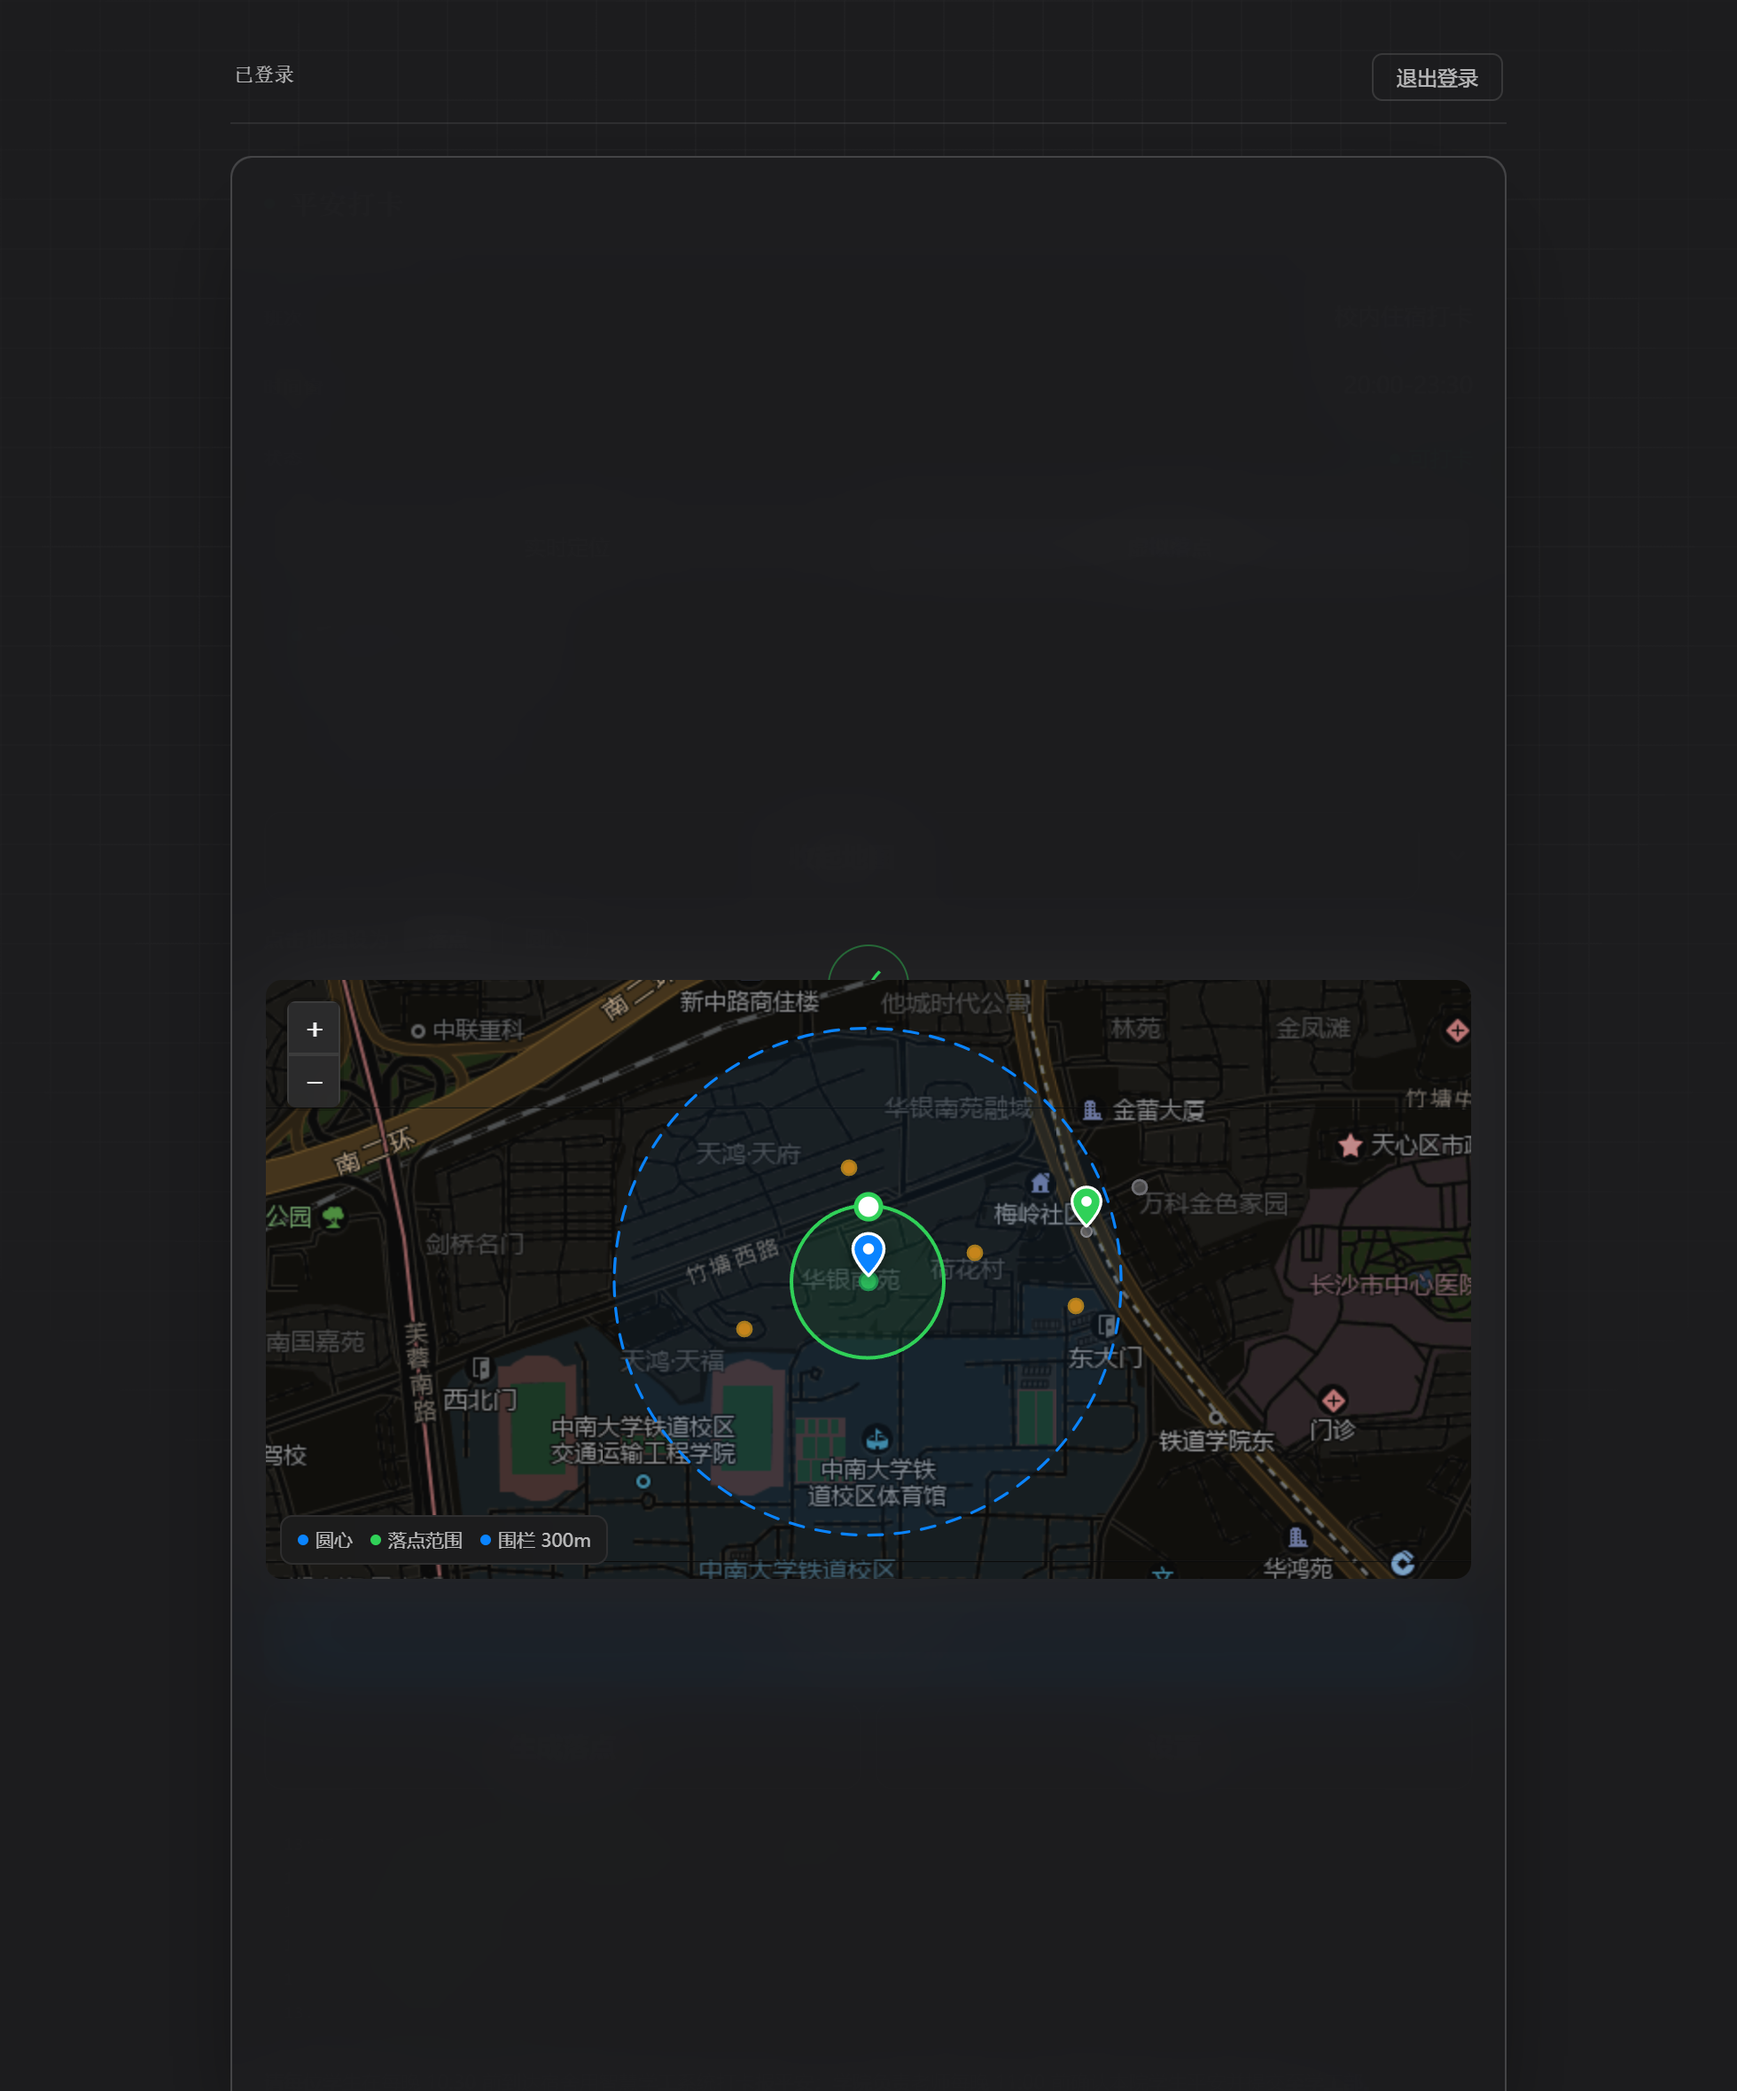
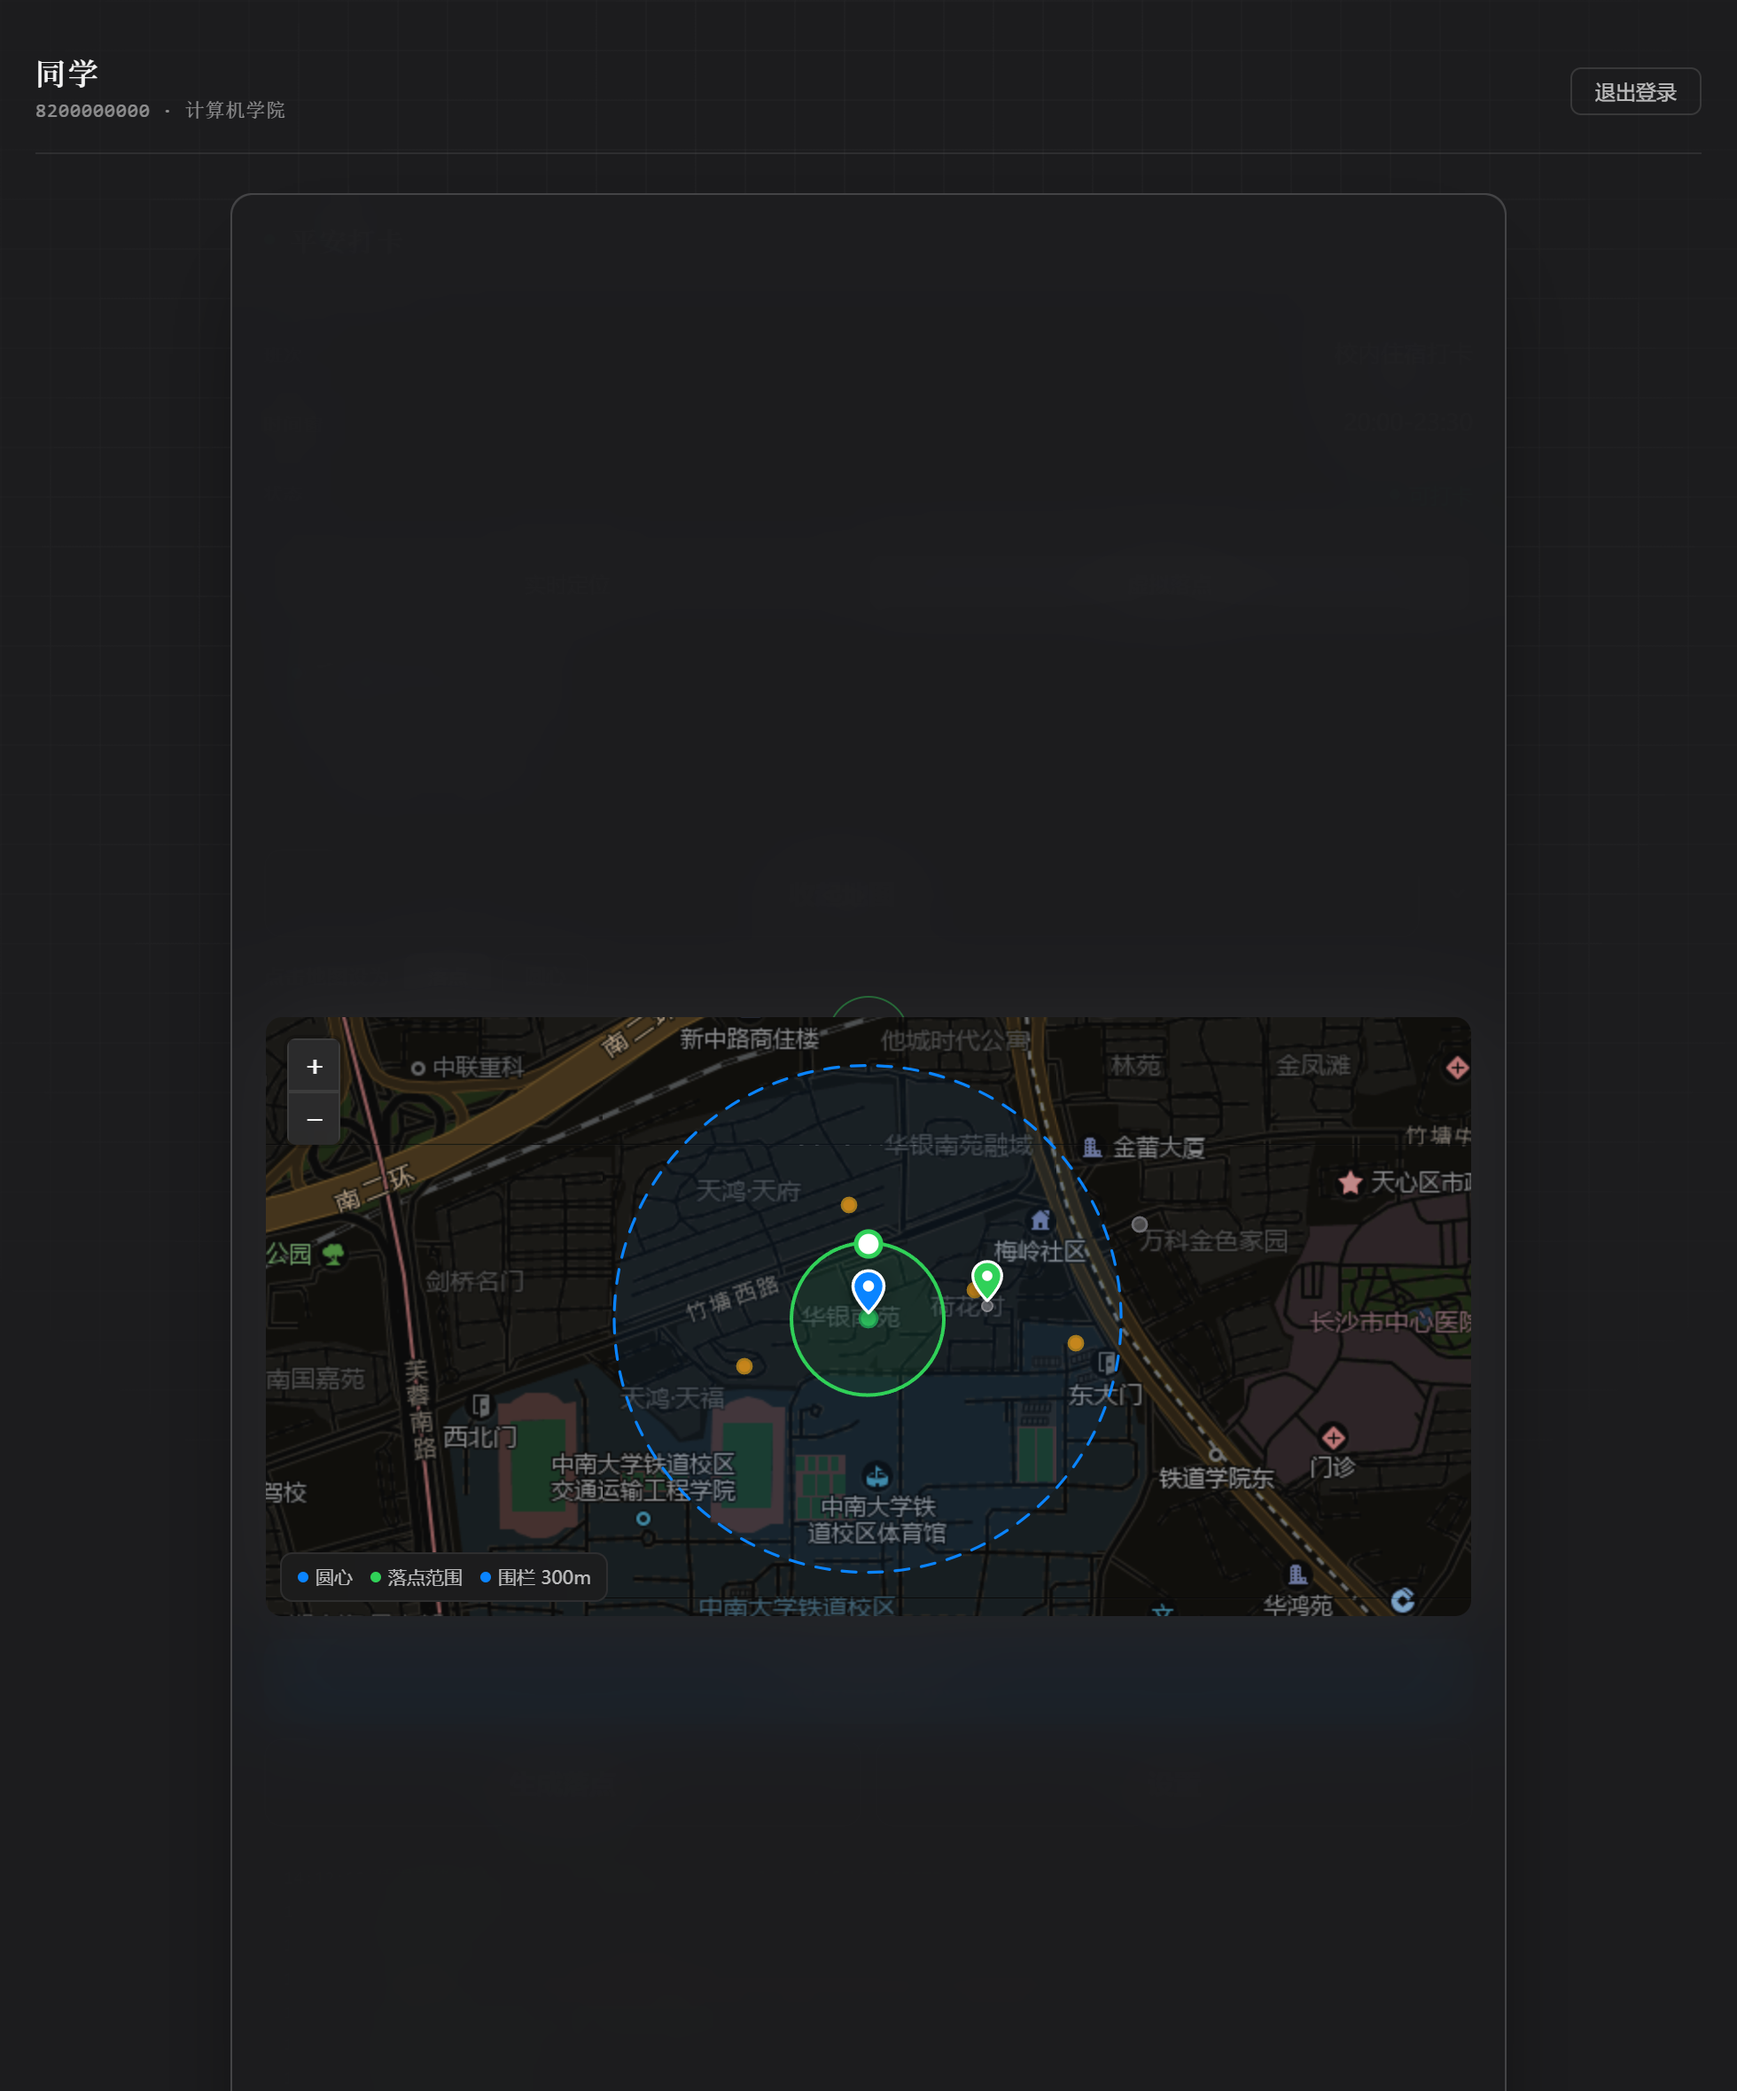
feat(padk): 身份信息提到页眉左上角，并持久化用户档案
页眉
- .padk-bar 原本是「与面板同宽的居中标尺」，学生信息被摆在页面中上方。
  改为贴内容区左缘的页眉：姓名用衬线放大一号，学号与院系以等宽小字衬在
  下方，退出登录留在右端。桌面 x=20、窄屏 x=12

顺带修掉的连带缺陷
- user 是内存态，刷新后只剩 token，页眉会退化成「已登录」，
  等于这个展示刷新一次就没了。新增 csu-padk:profile 单独持久化档案，
  初始化时回填，退出登录与凭据失效（203/2031）时一并清除

验证
- e2e-fixtures 的 enterReady 补写档案，使审计能看到真实身份
- 审计新增页眉断言：x 坐标、左边缘判定、姓名、字体、学号/院系
- 9 个状态规范检查全通过；桌面与窄屏都确认落在左上角，
  姓名渲染为 Songti SC，学号/院系为等宽小字
- shots/ 视觉快照已按新页眉重新生成

diff --git a/05-padk-web/src/padk/PadkPage.tsx b/05-padk-web/src/padk/PadkPage.tsx
@@ -5,7 +5,11 @@ import { store } from "../core/store";
 // （书签注入时则是把同一份 CSS 内联进 Shadow DOM）
 import "../panel/panel.css";
 
+/** 只存学号，用于回填登录表单 */
 const LS_USER = "csu-padk:savedUser";
+/** 完整用户档案（姓名 / 学号 / 院系）。刷新后 token 还在，
+ *  但 user 是内存态、会丢，页眉就只剩「已登录」——单独存一份 */
+const LS_PROFILE = "csu-padk:profile";
 
 export default function PadkPage() {
   const [phase, setPhase] = useState<"check" | "login" | "ready">("check");
@@ -22,6 +26,15 @@ export default function PadkPage() {
     const c = localStorage.getItem("casual") || localStorage.getItem("caasual") || "";
     const saved = localStorage.getItem(LS_USER);
     if (saved) setUsername(saved);
+
+    const profile = localStorage.getItem(LS_PROFILE);
+    if (profile) {
+      try {
+        setUser(JSON.parse(profile));
+      } catch {
+        localStorage.removeItem(LS_PROFILE);
+      }
+    }
 
     if (t.length >= 32 && c.length >= 8) {
       setPhase("ready");
@@ -54,6 +67,7 @@ export default function PadkPage() {
 
       localStorage.setItem("token", j.token);
       localStorage.setItem("casual", j.casual);
+      localStorage.setItem(LS_PROFILE, JSON.stringify(j.user));
       if (remember) localStorage.setItem(LS_USER, j.user.xh);
       else localStorage.removeItem(LS_USER);
 
@@ -73,6 +87,7 @@ export default function PadkPage() {
     localStorage.removeItem("token");
     localStorage.removeItem("casual");
     localStorage.removeItem("caasual");
+    localStorage.removeItem(LS_PROFILE);
     store.clearHistory();
     setPhase("login");
     setUser(null);
@@ -83,6 +98,7 @@ export default function PadkPage() {
     localStorage.removeItem("token");
     localStorage.removeItem("casual");
     localStorage.removeItem("caasual");
+    localStorage.removeItem(LS_PROFILE);
     setUser(null);
     setErr(`${msg}　请重新登录。`);
     setPhase("login");
@@ -160,10 +176,12 @@ export default function PadkPage() {
   return (
     <div className="padk-shell">
       <div className="padk-bar">
-        <span className="pb-id">
-          {user ? `${user.xm} · ${user.xh}` : "已登录"}
-          {user?.bmmc ? ` · ${user.bmmc}` : ""}
-        </span>
+        <div className="pb-who">
+          <span className="pb-name">{user?.xm || "已登录"}</span>
+          <span className="pb-meta">
+            {user ? [user.xh, user.bmmc].filter(Boolean).join(" · ") : "—"}
+          </span>
+        </div>
         <button className="pb-out" onClick={logout}>
           退出登录
         </button>

diff --git a/05-padk-web/src/padk/padk.css b/05-padk-web/src/padk/padk.css
@@ -211,24 +211,45 @@ body:has(.padk-shell) {
   border-radius: 4px;
 }
 
-/* ── 顶部信息条 ── */
+/* ── 页眉：身份信息占左上角，与居中面板分开 ── */
 .padk-bar {
+  /* shell 是 align-items:center，这里自己靠左拉满，
+     让姓名落在真正的左上角，而不是跟着面板居中 */
   width: 100%;
-  max-width: 720px;
+  max-width: 1180px;
+  align-self: flex-start;
   display: flex;
   align-items: center;
   justify-content: space-between;
   gap: 14px;
-  padding: 0 2px 12px;
-  margin-bottom: 18px;
+  padding: 0 0 13px;
+  margin-bottom: 22px;
   border-bottom: 1px solid var(--pg-line);
   animation: rise 0.5s cubic-bezier(0.2, 0.75, 0.3, 1) both;
 }
-.pb-id {
+.pb-who {
+  display: flex;
+  flex-direction: column;
+  gap: 3px;
+  min-width: 0;
+}
+.pb-name {
+  font-family: var(--pg-serif);
+  font-size: 17px;
+  font-weight: 600;
+  letter-spacing: 0.08em;
+  line-height: 1.25;
+  color: var(--pg-t1);
+}
+.pb-meta {
   font-family: var(--pg-mono);
   font-size: 11px;
   letter-spacing: 0.04em;
-  color: var(--pg-t2);
+  color: var(--pg-t3);
+  font-variant-numeric: tabular-nums;
+  white-space: nowrap;
+  overflow: hidden;
+  text-overflow: ellipsis;
 }
 .pb-out {
   padding: 5px 13px;
